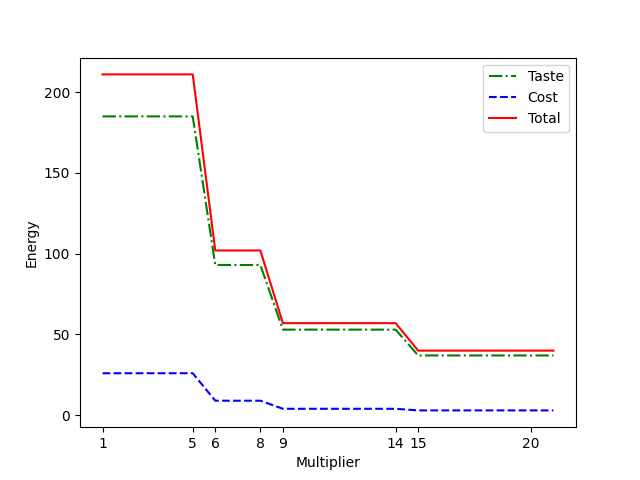
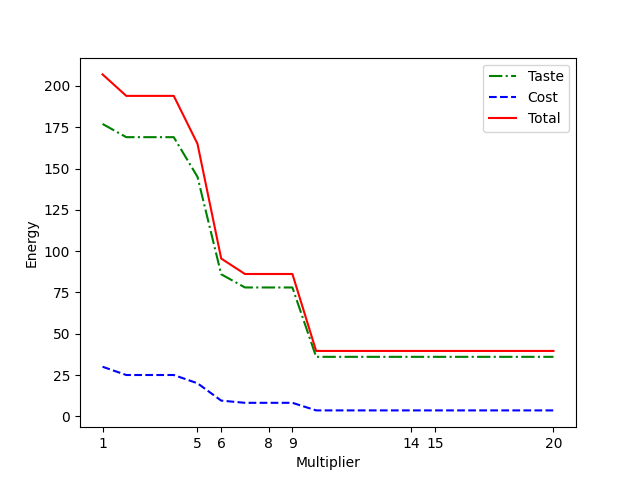
Add cqm with real vars: update graphic for milp

diff --git a/docs/examples/hybrid_cqm_diet.rst b/docs/examples/hybrid_cqm_diet.rst
@@ -406,8 +406,6 @@ part of the objective that minimizes cost by a factor of :math:`6`.
 The graphic below shows the solution energies of the combined objective and both
 of its parts for :math:`\alpha = 1, \beta = \{1, 2, 3, ... 19, 20\}`.
 
-TODO: RERUN FOR MILP PROBLEM FORMAT
-
 .. figure:: ../_images/diet_solutions_energy.png
    :name: DietSolutionsEnergy
    :alt: image
